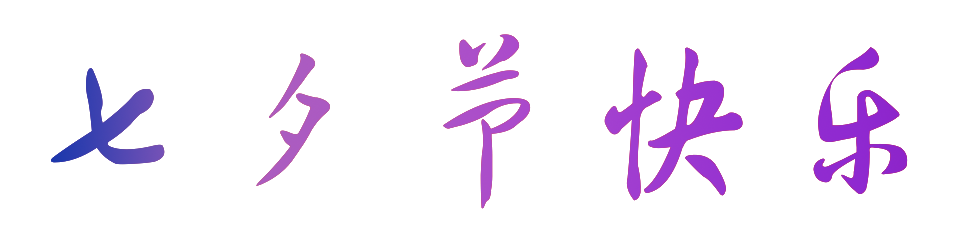
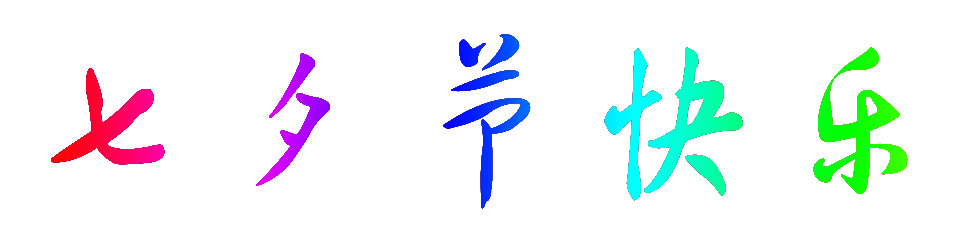
Add files via upload

diff --git a/3.css b/3.css
@@ -16,17 +16,18 @@
 #txt{
 position: absolute;
 top: 80%;
-left: 30%;
+left: 20%;
 size: 100%;
 
 }
 #mgtxt{
-    width: 80%;
-    height: 40%;
+    width: 90%;
+    height: 20%;
     max-height: 250px;
     max-width: 1000px;
     position: absolute;
-    left: 15%;
+    left: 10%;
+    top: 20%;
 }
 #DH{
     position: relative;
@@ -45,20 +46,20 @@ size: 100%;
     0%  {
         background:url(6.jpg) no-repeat 0px 0px;
          left: 30%;
-         top: 0%;
+         top: 20%;
          background-size: 100%;
          
         }
     25% {
             background:url(6.jpg) no-repeat 0px 0px;
-            left: 45%;
-            top: 10%;
+            left: 50%;
+            top: 30%;
              background-size: 100%;
              
             }
     50% {
                 background:url(6.jpg) no-repeat 0px 0px;
-                top: 25%;
+                top: 40%;
                  background-size: 100%;
                  
                 }
@@ -66,14 +67,14 @@ size: 100%;
     75% {
                     background:url(6.jpg) no-repeat 0px 0px;
                     left: 15%;
-                    top: 10%;
+                    top: 30%;
                      background-size: 100%;
                      
                     }
     100%{
         background:url(6.jpg) no-repeat 0px 0px;
         left: 30%;
-        top:0%;
+        top:20%;
         background-size: 100%;
         }
     
@@ -81,8 +82,8 @@ size: 100%;
  /*动画*/
  #img2{
      position: fixed;
-    width: 40%;
-    left: 30%;
+    width: 50%;
+    left: 40%;
     
     animation: myfirst ;/*绑定动画为myfirst*/
     -webkit-animation: myfirst 5s;/*动画持续时间*/

diff --git a/index.html b/index.html
@@ -6,7 +6,9 @@
         <title>七夕节快乐</title>
         <meta name="description" content="">
         <meta name="viewport" content="width=device-width, initial-scale=1">
-        <link rel="stylesheet" href="4.css">
+        <link rel="stylesheet" href="4.css" media="screen">
+        <link rel="stylesheet" href="3.css" media="handheld">
+      
     </head>
     <body>
         <div id="D1">

diff --git a/2.js b/2.js
@@ -17,7 +17,7 @@ setInterval(function(){
 
 function wz(t){
     text.innerHTML=(t);
-    text.style.color='red';
+    text.style.color='#00FFFF';
 }
 
 lyr[0]="你是信的开头诗的内容　童话的结尾";
